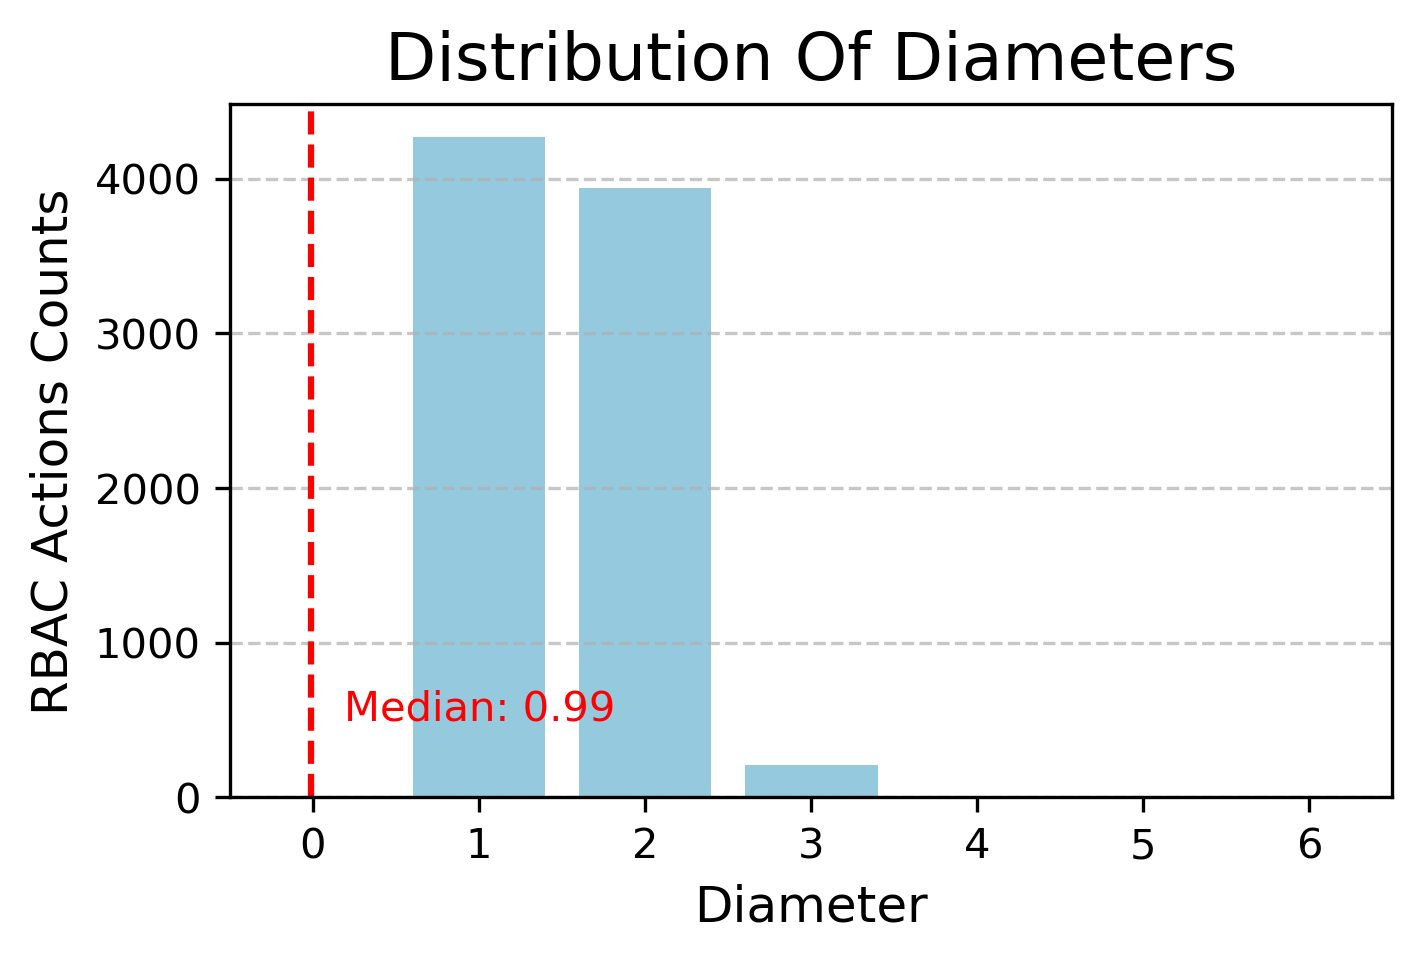
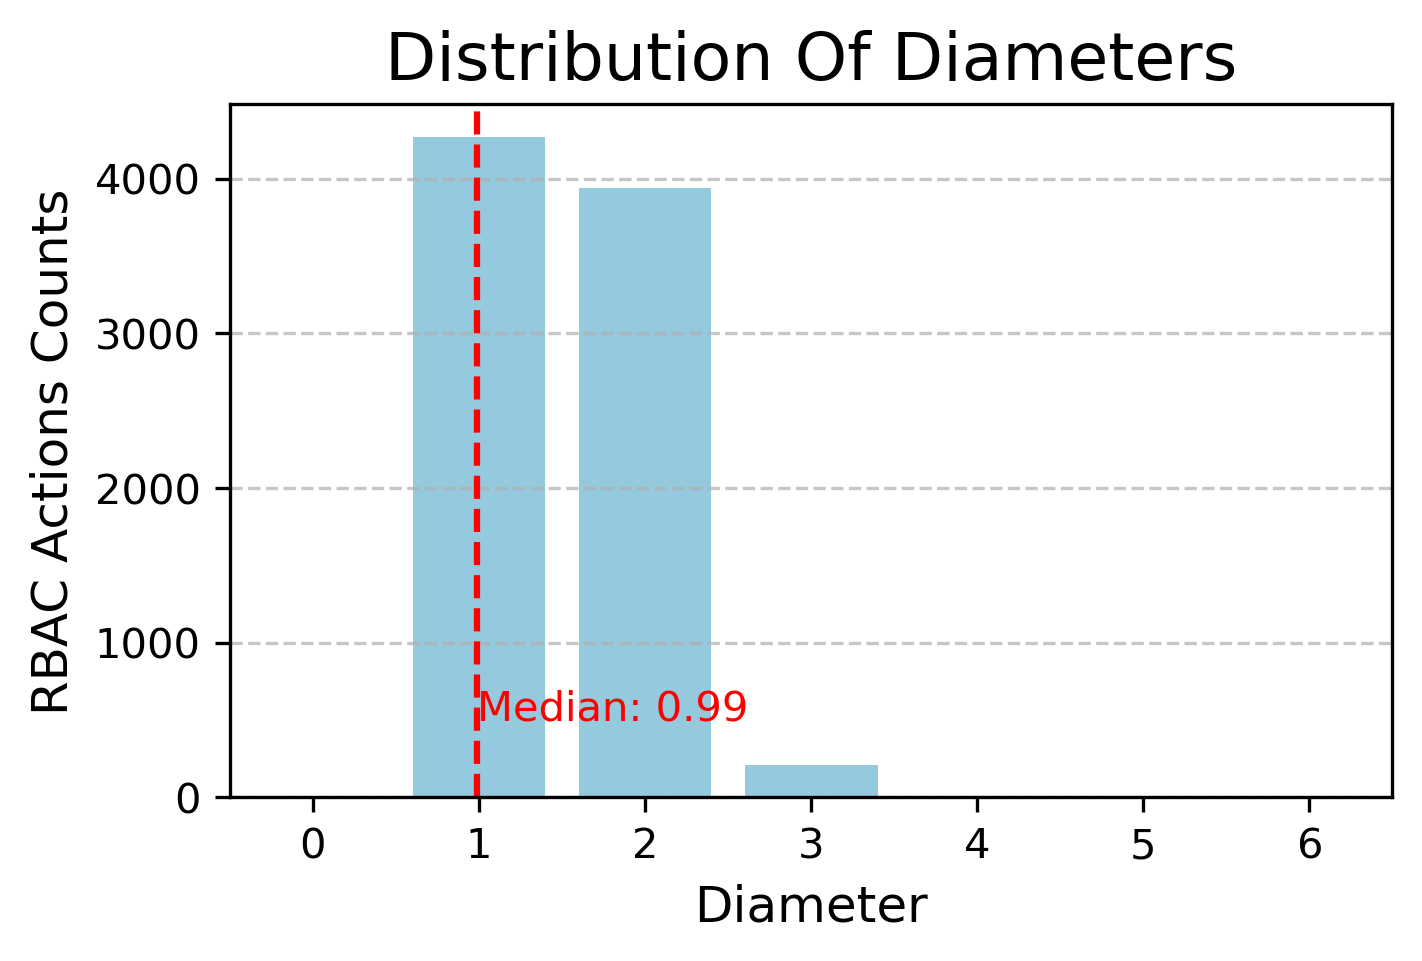
up

Changed region(s): [[0.2166, 0.1249, 0.526, 0.8117]]

diff --git a/belshazaar/median_diameter.py b/belshazaar/median_diameter.py
@@ -50,8 +50,8 @@ print(median_diameter,"percentile:",percentile)
 # Create a histogram using Seaborn
 plt.figure(figsize=(5, 3))
 sns.barplot(x='Diameter', y='Count', data=df, color='skyblue')
-plt.axvline(x=median_diameter-1, color='red', linestyle='--', label=f'Median Diameter: {median_diameter}')
-plt.text(median_diameter-0.8, 700, f'Median: {median_diameter:.2f}', color='red', ha='left', va='top')
+plt.axvline(x=median_diameter, color='red', linestyle='--', label=f'Median Diameter: {median_diameter}')
+plt.text(median_diameter, 700, f'Median: {median_diameter:.2f}', color='red', ha='left', va='top')
 
 # Add labels and title
 plt.xlabel('Diameter', fontsize=12)
